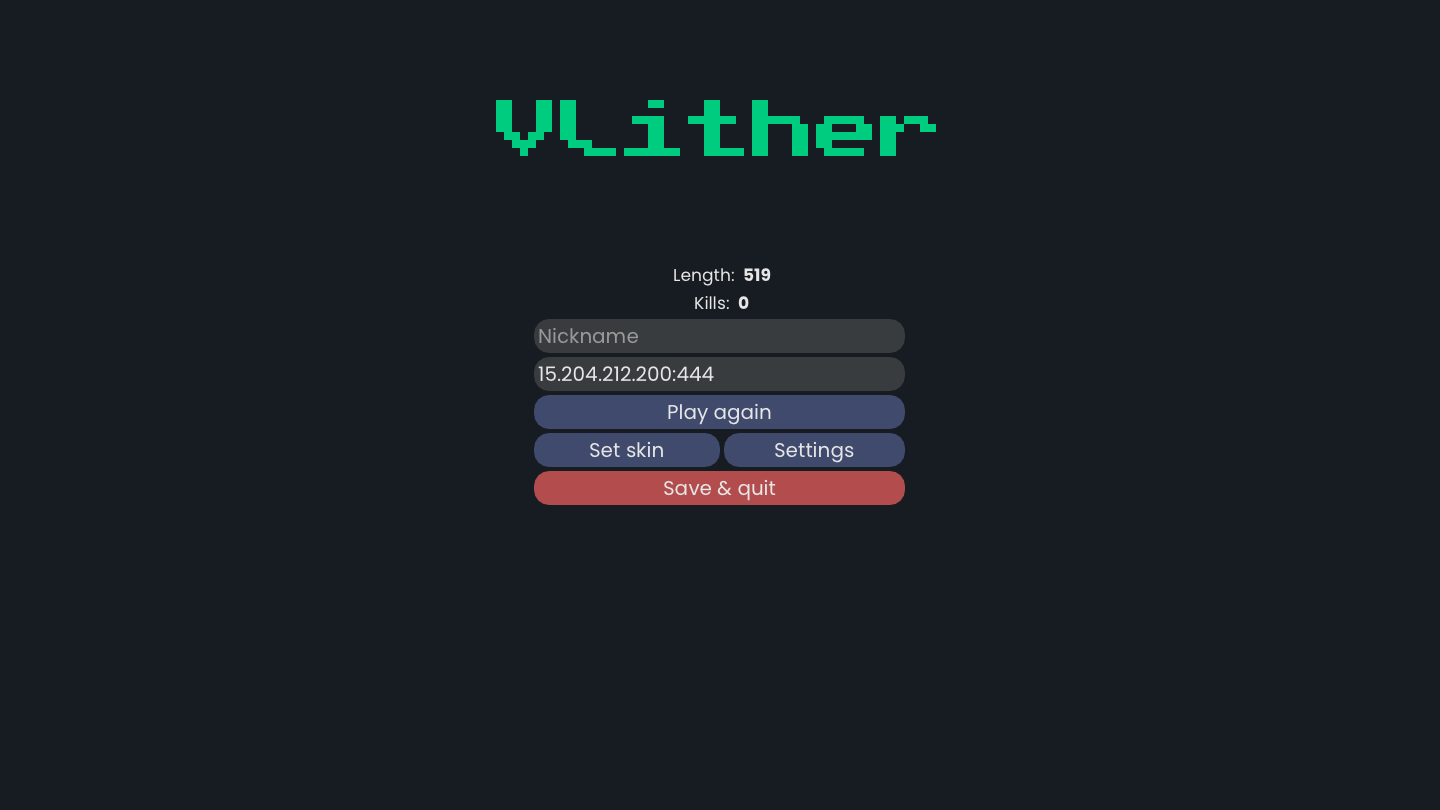
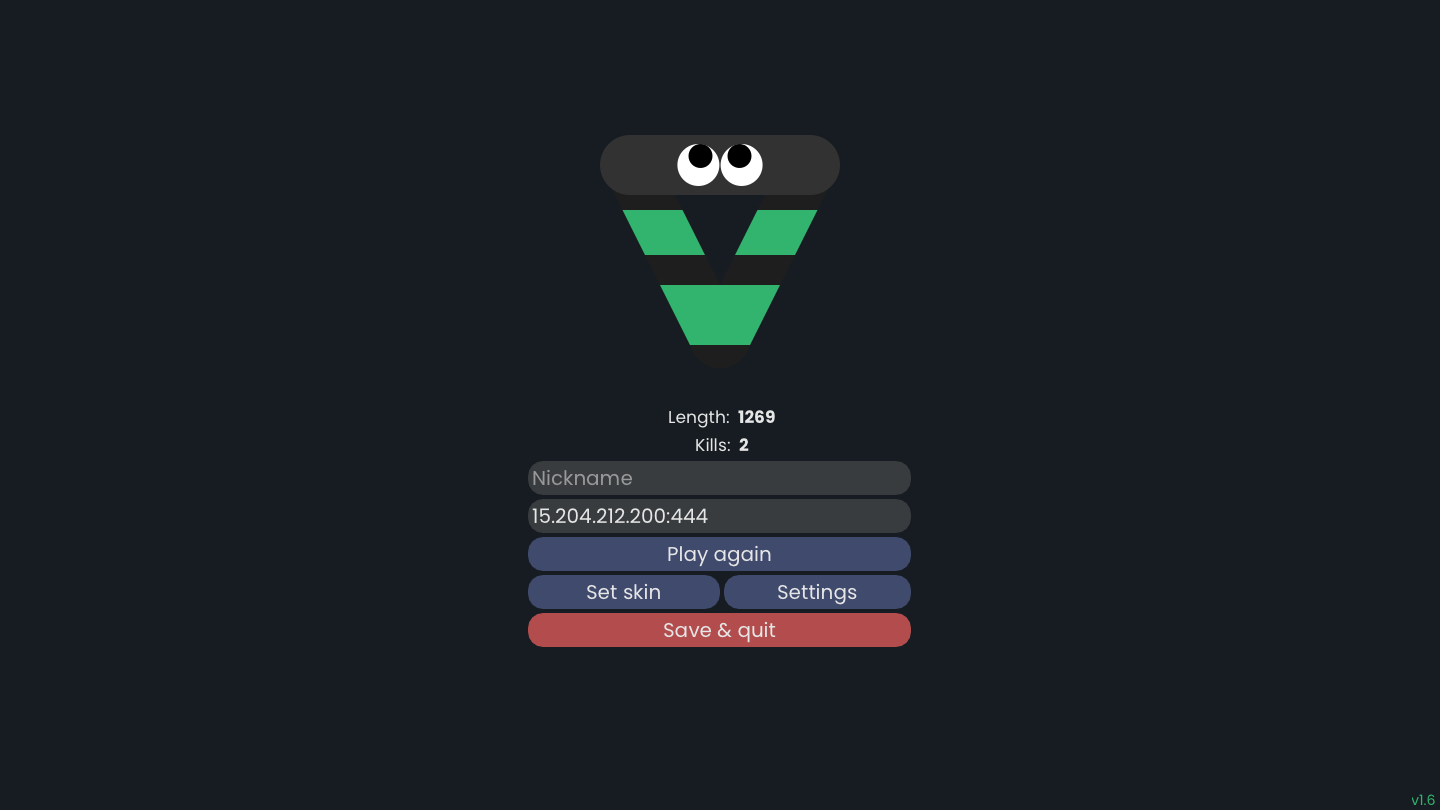
1.6

Changed region(s): [[0.3438, 0.1235, 0.6562, 0.8025], [0.9688, 0.9877, 1.0, 1.0]]

diff --git a/app/src/game/game.c b/app/src/game/game.c
@@ -3,6 +3,7 @@
 #include "../networking/util.h"
 #include "prey.h"
 #include "title_screen.h"
+#include "external/stb/stb_image.h"
 
 #define CIMGUI_DEFINE_ENUMS_AND_STRUCTS
 #include "../external/cimgui/cimgui.h"
@@ -184,8 +185,6 @@ void create_game(int argc, char** argv) {
 			.lfcv = -1,
 			.zoom = 0.9f * 18.0f / 14.0f,
 			.gsc = 0.9f * 18.0f / 14.0f,
-			.bgw2 = 599,
-			.bgh2 = 519,
 			.lag_mult = 1,
 
 			.color_groups = {
@@ -394,15 +393,27 @@ void create_game(int argc, char** argv) {
 		i++;
 	}
 
-	
-	if (g.settings_instance.fullscreen) {
-		g.window = ig_window_create(&(ig_ivec2) { .x = 1280, .y = 832 }, "vlither", 1, 0);
-	} else {
-		if (g.settings_instance.window_size.x == 0 || g.settings_instance.window_size.y == 0) {
-			g.window = ig_window_create_asp(16.0f / 9.0f, "vlither");
+	{
+		GLFWimage icons[3];
+		int channels;
+
+		icons[0].pixels = stbi_load("app/res/textures/icon_s.png", &icons[0].width, &icons[0].height, &channels, 4);
+		icons[1].pixels = stbi_load("app/res/textures/icon_m.png", &icons[1].width, &icons[1].height, &channels, 4);
+		icons[2].pixels = stbi_load("app/res/textures/icon_l.png", &icons[2].width, &icons[2].height, &channels, 4);
+		
+		if (g.settings_instance.fullscreen) {
+			g.window = ig_window_create(&(ig_ivec2) { .x = 1280, .y = 832 }, "vlither", 1, 0, icons, 3);
 		} else {
-			g.window = ig_window_create(&g.settings_instance.window_size, "vlither", 0, 0);
+			if (g.settings_instance.window_size.x == 0 || g.settings_instance.window_size.y == 0) {
+				g.window = ig_window_create_asp(16.0f / 9.0f, "vlither", icons, 3);
+			} else {
+				g.window = ig_window_create(&g.settings_instance.window_size, "vlither", 0, 0, icons, 3);
+			}
 		}
+
+		stbi_image_free(icons[0].pixels);
+		stbi_image_free(icons[1].pixels);
+		stbi_image_free(icons[2].pixels);
 	}
 
 	g.window->last_dim.x = g.settings_instance.window_size.x;
@@ -414,9 +425,11 @@ void create_game(int argc, char** argv) {
 
 	ig_texture* sprite_sheet = ig_context_texture_create_from_file(g.icontext, "app/res/textures/sprite_sheet.png");
 	ig_texture* font_sheet = ig_context_texture_create_from_file(g.icontext, "app/res/textures/font_sheet.png");
-	ig_texture* bg_tex = ig_context_texture_create_from_file(g.icontext, "app/res/textures/bg54.jpg");
+	g.bg_tex = ig_context_texture_create_from_file(g.icontext, "app/res/textures/background.jpg");
+	ig_texture* logo_tex = ig_context_texture_create_from_file(g.icontext, "app/res/textures/logo.png");
 
-	g.renderer = renderer_create(&g, g.icontext, g.window, sprite_sheet, MAX_BP_RENDER, MAX_FOOD_RENDER, 128, font_sheet, bg_tex, 64);
+	g.renderer = renderer_create(&g, g.icontext, g.window, sprite_sheet, MAX_BP_RENDER, MAX_FOOD_RENDER, 128, font_sheet, g.bg_tex, 64);
+	g.logo_tex_ptr = igImplVulkan_AddTexture(g.icontext->nearest_sampler, logo_tex->view, VK_IMAGE_LAYOUT_SHADER_READ_ONLY_OPTIMAL);
 
 	input_data input_data = {};
 
@@ -552,7 +565,8 @@ void create_game(int argc, char** argv) {
 	ig_context_finish(g.icontext);
 
 	renderer_destroy(g.renderer);
-	ig_context_texture_destroy(g.icontext, bg_tex);
+	ig_context_texture_destroy(g.icontext, logo_tex);
+	ig_context_texture_destroy(g.icontext, g.bg_tex);
 	ig_context_texture_destroy(g.icontext, font_sheet);
 	ig_context_texture_destroy(g.icontext, sprite_sheet);
 	message_queue_destroy(&g.msg_queue);

diff --git a/app/src/game/title_screen.c b/app/src/game/title_screen.c
@@ -51,14 +51,18 @@ void title_screen(game* g) {
 		} else if (g->show_settings) {
 			settings_screen(g);
 		} else {
-			int logo_len = 7 * 16 * 4;
+			int logo_len = 400;// 7 * 16 * 4;
 			int logo_pos = g->icontext->default_frame.resolution.x / 2 - (logo_len) / 2;
 
-			renderer_push_text(g->renderer, "Vlither", &(ig_vec3) {.x = logo_pos, .y = 100, .z = 14 * 4 }, & (ig_vec4) { .x = 0, .y = 0.8f, .z = 0.5f, .w = 1 }, & (ig_vec3) {});
+			// renderer_push_text(g->renderer, "Vlither", &(ig_vec3) {.x = logo_pos, .y = 100, .z = 14 * 4 }, & (ig_vec4) { .x = 0, .y = 0.8f, .z = 0.5f, .w = 1 }, & (ig_vec3) {});
 
-			igSetNextWindowPos((ImVec2) { .x = logo_pos + 30, .y = g->icontext->default_frame.resolution.y / 2 - 150 }, ImGuiCond_None, (ImVec2) {});
-			igSetNextWindowSize((ImVec2) { .x = logo_len - 60, .y = 300 }, ImGuiCond_None);
+			igSetNextWindowPos((ImVec2) { .x = logo_pos, .y = g->icontext->default_frame.resolution.y / 2 - 300 }, ImGuiCond_None, (ImVec2) {});
+			igSetNextWindowSize((ImVec2) { .x = logo_len, .y = 900 }, ImGuiCond_None);
 			igBegin("login", NULL, ImGuiWindowFlags_NoTitleBar | ImGuiWindowFlags_NoBackground | ImGuiWindowFlags_NoResize);
+			igSetCursorPosX(50);
+			igSetCursorPosY(0);
+			igImage(g->logo_tex_ptr, (ImVec2) { 300, 300 }, (ImVec2) { 0, 0 }, (ImVec2) { 1, 1 }, (ImVec4) { 1, 1, 1, 1 }, (ImVec4) { 0, 0, 0, 0 });
+			igSetCursorPosY(300);
 
 			bool did_play = g->config.length_display != 0;
 			
@@ -68,7 +72,7 @@ void title_screen(game* g) {
 				
 				igPushFont(g->renderer->fonts[RENDERER_FONT_MED]);
 				ImVec2 txt_size; igCalcTextSize(&txt_size, buff, NULL, false, 0);
-				igSetCursorPosX(((logo_len - 60) - txt_size.x) / 2);
+				igSetCursorPosX(((logo_len) - txt_size.x) / 2);
 				// highscore
 				igText("Length:"); igSameLine(0, -1);
 				igPopFont();
@@ -79,7 +83,7 @@ void title_screen(game* g) {
 				igPushFont(g->renderer->fonts[RENDERER_FONT_MED]);
 				sprintf(buff, "Kills: %d", g->config.kills_display);
 				igCalcTextSize(&txt_size, buff, NULL, false, 0);
-				igSetCursorPosX(((logo_len - 60) - txt_size.x) / 2);
+				igSetCursorPosX(((logo_len) - txt_size.x) / 2);
 				// highscore
 				igText("Kills:"); igSameLine(0, -1);
 				igPopFont();
@@ -137,6 +141,17 @@ void title_screen(game* g) {
 			}
 			igPopStyleColor(3);
 			igEnd();
+
+			igPushFont(g->renderer->fonts[RENDERER_FONT_SMALL]);
+			ImVec2 version_txt_size; igCalcTextSize(&version_txt_size, VERSION_STR, NULL, false, 0);
+			igSetNextWindowPos((ImVec2) { g->icontext->default_frame.resolution.x - version_txt_size.x - 4, g->icontext->default_frame.resolution.y - version_txt_size.y }, ImGuiCond_None, (ImVec2) { 0, 0 });
+			igSetNextWindowSize((ImVec2) { version_txt_size.x, version_txt_size.y }, ImGuiCond_None);
+			igBegin("version_win", NULL, ImGuiWindowFlags_NoBackground | ImGuiWindowFlags_NoResize | ImGuiWindowFlags_NoTitleBar);
+			igSetCursorPosX(0);
+			igSetCursorPosY(0);
+			igTextColored((ImVec4) { 0.196f, 0.706f, 0.431f, 1 }, VERSION_STR);
+			igEnd();
+			igPopFont();
 		}
 	}
 

diff --git a/ignite/src/framework/ig_window.c b/ignite/src/framework/ig_window.c
@@ -9,7 +9,7 @@ void framebuffer_resize_callback(GLFWwindow* window, int width, int height) {
 	ud->window->resize_requested = true;
 }
 
-ig_window* ig_window_create_asp(float asp_ratio, const char* title) {
+ig_window* ig_window_create_asp(float asp_ratio, const char* title, const GLFWimage* icons, int icons_count) {
 	glfwInit();
 	glfwWindowHint(GLFW_CLIENT_API, GLFW_NO_API);
 	glfwWindowHint(GLFW_RESIZABLE, GLFW_TRUE);
@@ -33,6 +33,7 @@ ig_window* ig_window_create_asp(float asp_ratio, const char* title) {
 	r->last_dim.y = window_height;
 
 	r->native_handle = glfwCreateWindow(r->dim.x, r->dim.y, title, NULL, NULL);
+	if (icons) glfwSetWindowIcon(r->native_handle, icons_count, icons);
 	glfwSetWindowPos(r->native_handle, (vidmode->width / 2) - (r->dim.x / 2), (vidmode->height / 2) - (r->dim.y / 2));
 	glfwSetFramebufferSizeCallback(r->native_handle, framebuffer_resize_callback);
 	glfwSetWindowUserPointer(r->native_handle, &r->ud);
@@ -40,7 +41,7 @@ ig_window* ig_window_create_asp(float asp_ratio, const char* title) {
 	return r;
 }
 
-ig_window* ig_window_create(const ig_ivec2* dim, const char* title, int full_screen, int monitor) {
+ig_window* ig_window_create(const ig_ivec2* dim, const char* title, int full_screen, int monitor, const GLFWimage* icons, int icons_count) {
 	glfwInit();
 	glfwWindowHint(GLFW_CLIENT_API, GLFW_NO_API);
 	glfwWindowHint(GLFW_RESIZABLE, GLFW_TRUE);
@@ -56,6 +57,7 @@ ig_window* ig_window_create(const ig_ivec2* dim, const char* title, int full_scr
 	r->last_dim.y = r->dim.y;
 
 	r->native_handle = glfwCreateWindow(r->dim.x, r->dim.y, title, full_screen ? monitors[monitor] : NULL, NULL);
+	if (icons) glfwSetWindowIcon(r->native_handle, icons_count, icons);
 	glfwSetFramebufferSizeCallback(r->native_handle, framebuffer_resize_callback);
 	if (!full_screen)
 		glfwSetWindowPos(r->native_handle, (vidmode->width / 2) - (r->dim.x / 2), (vidmode->height / 2) - (r->dim.y / 2));

diff --git a/app/src/game/redraw.c b/app/src/game/redraw.c
@@ -65,8 +65,8 @@ void redraw(game* g, const input_data* input_data) {
 		g->config.apy2 = g->config.view_yy + (mhh2 / g->config.gsc + 210);
 	}
 
-	g->config.bgx2 -= (g->config.view_xx - lvx) * 1 / g->config.bgw2;
-	g->config.bgy2 -= (g->config.view_yy - lvy) * 1 / g->config.bgh2;
+	g->config.bgx2 -= (g->config.view_xx - lvx) * 1 / (float) g->bg_tex->dim.x;
+	g->config.bgy2 -= (g->config.view_yy - lvy) * 1 / (float) g->bg_tex->dim.y;
 
 	float grd = g->config.grd;
 	
@@ -87,10 +87,10 @@ void redraw(game* g, const input_data* input_data) {
 		},
 		.ratios = { .x = 0, .y = 1 },
 		.uv_rect = {
-			.x = (((-mww / g->config.bgw2) / 2) / g->config.gsc) - g->config.bgx2,
-			.y = (((-mhh / g->config.bgh2) / 2) / g->config.gsc) - g->config.bgy2,
-			.z = (mww / g->config.bgw2) / g->config.gsc,
-			.w = (mhh / g->config.bgh2) / g->config.gsc },
+			.x = (((-mww / g->bg_tex->dim.x) / 2) / g->config.gsc) - g->config.bgx2,
+			.y = (((-mhh / g->bg_tex->dim.y) / 2) / g->config.gsc) - g->config.bgy2,
+			.z = (mww / g->bg_tex->dim.x) / g->config.gsc,
+			.w = (mhh / g->bg_tex->dim.y) / g->config.gsc },
 		.color = { .x = 1 * (1 - g->settings_instance.black_bg), .y = 1 * (1 - g->settings_instance.black_bg), .z = 1 * (1 - g->settings_instance.black_bg), .w = 1 }
 	});
 

diff --git a/app/src/game/game.h b/app/src/game/game.h
@@ -9,6 +9,9 @@
 #include "../rendering/renderer.h"
 #include "message.h"
 
+#define CIMGUI_DEFINE_ENUMS_AND_STRUCTS
+#include "../external/cimgui/cimgui.h"
+
 #define PROTOCOL_VERSION 14
 
 typedef struct prey prey;
@@ -16,6 +19,7 @@ typedef struct prey prey;
 #define PREY_SIZES 22
 #define MAX_BP_RENDER (10 * (32768 + 512))
 #define MAX_FOOD_RENDER (10 * 16384)
+#define VERSION_STR "v1.6"
 
 typedef struct input_data {
 	ig_vec2 mouse_pos;
@@ -190,8 +194,6 @@ typedef struct game {
 		float apy2;
 		float bgx2;
 		float bgy2;
-		float bgw2;
-		float bgh2;
 
 		// skin stuff:
 		ig_vec3 color_groups[40];
@@ -218,6 +220,8 @@ typedef struct game {
 	ig_mouse* mouse;
 	ig_context* icontext;
 	renderer* renderer;
+	ig_texture* bg_tex;
+	ImTextureID logo_tex_ptr;
 
 	int setting_skin;
 	int show_settings;

diff --git a/app/src/game/set_skin.c b/app/src/game/set_skin.c
@@ -20,7 +20,7 @@ void set_skin(game* g) {
 	renderer_push_bg(g->renderer, &(sprite_instance) {
 		.rect = { 0, 0, g->icontext->default_frame.resolution.x, g->icontext->default_frame.resolution.y },
 		.ratios = { .x = 0, .y = 1 },
-		.uv_rect = { .x = -1 * glfwGetTime() * 0.15f, .y = 0, .z = (g->icontext->default_frame.resolution.x / g->config.bgw2), .w = (g->icontext->default_frame.resolution.y / g->config.bgh2) },
+		.uv_rect = { .x = -1 * glfwGetTime() * 0.15f, .y = 0, .z = (g->icontext->default_frame.resolution.x / (float) g->bg_tex->dim.x), .w = (g->icontext->default_frame.resolution.y / (float) g->bg_tex->dim.y) },
 		.color = { .x = 1, .y = 1, .z = 1, .w = 1 }
 	});
 

diff --git a/app/src/networking/callback.c b/app/src/networking/callback.c
@@ -534,8 +534,8 @@ void client_callback(struct mg_connection* c, int ev, void* ev_data) {
 					float lvy = g->config.view_yy;
 					g->config.view_xx = o->xx + o->fx;
 					g->config.view_yy = o->yy + o->fy;
-					g->config.bgx2 -= (g->config.view_xx - lvx) * 1 / g->config.bgw2;
-					g->config.bgy2 -= (g->config.view_yy - lvy) * 1 / g->config.bgh2;
+					g->config.bgx2 -= (g->config.view_xx - lvx) * 1 / (float) g->bg_tex->dim.x;
+					g->config.bgy2 -= (g->config.view_yy - lvy) * 1 / (float) g->bg_tex->dim.y;
 					// g->config.bgx2 = fmod(g->config.bgx2, 1.0f);
 					// if (g->config.bgx2 < 0) g->config.bgx2 += 1;
 					// g->config.bgy2 = fmodf(g->config.bgy2, 1.0f);

diff --git a/ignite/src/framework/ig_window.h b/ignite/src/framework/ig_window.h
@@ -23,8 +23,8 @@ typedef struct ig_window {
 	bool resize_requested;
 } ig_window;
 
-ig_window* ig_window_create_asp(float asp_ratio, const char* title);
-ig_window* ig_window_create(const ig_ivec2* dim, const char* title, int full_screen, int monitor);
+ig_window* ig_window_create_asp(float asp_ratio, const char* title, const GLFWimage* icons, int icons_count);
+ig_window* ig_window_create(const ig_ivec2* dim, const char* title, int full_screen, int monitor, const GLFWimage* icons, int icons_count);
 
 void ig_window_input(ig_window* window);
 void ig_window_set_fullscreen(ig_window* window, bool fullscreen);

diff --git a/app/src/external/cimgui/cimgui.h b/app/src/external/cimgui/cimgui.h
@@ -4599,6 +4599,7 @@ CIMGUI_API void igImplGlfw_Shutdown(void);
 CIMGUI_API void igImplGlfw_NewFrame(void);
 CIMGUI_API bool igImplGlfw_InitForVulkan(GLFWwindow* window, bool install_callbacks);
 CIMGUI_API bool igImplVulkan_Init(ImGui_ImplVulkan_InitInfo* info);
+CIMGUI_API VkDescriptorSet igImplVulkan_AddTexture(VkSampler sampler,VkImageView image_view,VkImageLayout image_layout);
 CIMGUI_API void igImplVulkan_Shutdown(void);
 CIMGUI_API void igImplVulkan_NewFrame(void);
 CIMGUI_API void igImplVulkan_RenderDrawData(ImDrawData* draw_data,VkCommandBuffer command_buffer,VkPipeline pipeline);

diff --git a/app/src/external/cimgui/cimgui.cpp b/app/src/external/cimgui/cimgui.cpp
@@ -5453,6 +5453,9 @@ CIMGUI_API bool igImplGlfw_InitForVulkan(GLFWwindow* window, bool install_callba
 CIMGUI_API bool igImplVulkan_Init(ImGui_ImplVulkan_InitInfo* info) {
 	return ImGui_ImplVulkan_Init(info);
 }
+CIMGUI_API VkDescriptorSet igImplVulkan_AddTexture(VkSampler sampler,VkImageView image_view,VkImageLayout image_layout) {
+	return ImGui_ImplVulkan_AddTexture(sampler, image_view, image_layout);
+}
 CIMGUI_API void igImplVulkan_Shutdown(void) {
 	ImGui_ImplVulkan_Shutdown();
 }

diff --git a/README.md b/README.md
@@ -6,7 +6,7 @@ Vlither is a client for [Slither.io](https://slither.io) which can run outside t
 
 ### Running Instructions
 No dependencies are required to run the program. If your GPU supports at least Vulkan 1.0 (**no** features or extensions are used), you're good to go.
-- Download the latest [release](https://github.com/for-loop9/vlither/releases/tag/1.5).
+- Download the latest [release](https://github.com/for-loop9/vlither/releases/tag/1.6).
 - Enjoy!
 
 ### Build Instructions
